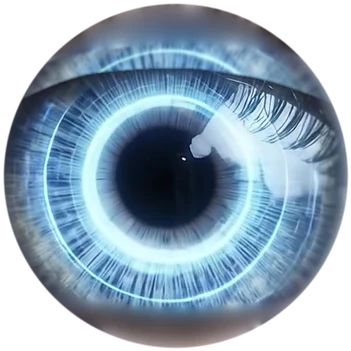
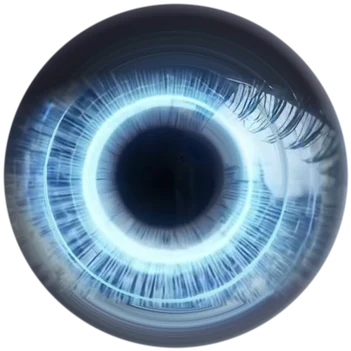
eye

diff --git a/index.html b/index.html
@@ -5,7 +5,7 @@
   <meta name="viewport" content="width=device-width, initial-scale=1">
   <title>Foresite — Modern websites, built to be found</title>
   <meta name="description" content="Foresite rebuilds outdated small business websites and sets them up to be found — by search engines, by Google Maps, and by AI assistants. Flat-fee builds for Australian local businesses.">
-  <link rel="preload" as="image" href="frames/eye_human.webp?v=2" fetchpriority="high">
+  <link rel="preload" as="image" href="frames/eye_human.webp?v=3" fetchpriority="high">
   <link rel="preconnect" href="https://fonts.googleapis.com">
   <link rel="preconnect" href="https://fonts.gstatic.com" crossorigin>
   <link rel="stylesheet" href="https://fonts.googleapis.com/css2?family=Archivo:wght@400;500;700&family=IBM+Plex+Mono:wght@400;500&family=Newsreader:ital,opsz,wght@1,6..72,300;1,6..72,400&display=swap">
@@ -1022,11 +1022,10 @@
   var AP   = { x: 375.0, y: 255.0, w: 630, h: 345 };    // the eye opening
   var EYE_X = 675, EYE_Y = 405;                          // centre of the eye
   var SAFE_W = 920, SAFE_H = 640;                        // must never be cropped
-  // How far the iris may travel. Deliberately modest: the lashes that cross
-  // the open eye are part of the iris image, so a large sweep drags them along
-  // with it and reads as a glitch. At this range the movement is clearly
-  // legible and the lashes stay put to the eye.
-  var GAZE_X = 34, GAZE_Y = 20;
+  // How far the iris may travel. The reflected lashes and the highlight now
+  // stay on the surface of the eye rather than riding along with the iris, so
+  // it can move properly again.
+  var GAZE_X = 58, GAZE_Y = 36;
 
   var BLINK_N = 30, EXPL_N = 27;
   var BLINK_CUT = 24;          // frames 0-23 are the blink; the rest is settling
@@ -1041,7 +1040,7 @@
   // Bump this whenever the frame files change. The filenames stay the same
   // between versions, so without it browsers and Vercel's CDN happily serve
   // last week's images with this week's code.
-  var P = 'frames/', V = '?v=2';
+  var P = 'frames/', V = '?v=3';
   function img(src) { var i = new Image(); i.decoding = 'async'; i.src = P + src + V; return i; }
   function pad(n) { return ('00' + n).slice(-3); }
 
@@ -1049,6 +1048,7 @@
   var aiBase = img('eye_ai_base.webp');
   var aiIris = img('eye_ai_iris.webp');
   var aiMask = img('eye_ai_mask.webp');
+  var aiRefl = img('eye_ai_refl.webp');
   var blink = [], expl = [], i;
   for (i = 0; i < BLINK_N; i++) blink.push(img('blink_' + pad(i) + '.webp'));
 
@@ -1064,7 +1064,7 @@
   }
   human.onload = function () { dirty = true; };
 
-  whenLoaded([human, aiBase, aiIris, aiMask].concat(blink), function () {
+  whenLoaded([human, aiBase, aiIris, aiMask, aiRefl].concat(blink), function () {
     blinkReady = true; dirty = true;
     if (wantsBlink) startBlink();
     for (var k = 0; k < EXPL_N; k++) expl.push(img('expl_' + pad(k) + '.webp'));
@@ -1171,6 +1171,15 @@
     octx.globalCompositeOperation = 'destination-in';
     octx.drawImage(aiMask, 0, 0);
     ctx.drawImage(off, ox + AP.x * k, oy + AP.y * k, AP.w * k, AP.h * k);
+    // The reflected lashes and the specular highlight live on the wet surface
+    // of the eye, not on the iris, so they are added last at a fixed position
+    // and the iris slides underneath them. Stored as pure added light, so
+    // 'lighter' reproduces the original frame exactly when the eye is at rest.
+    if (ready(aiRefl)) {
+      ctx.globalCompositeOperation = 'lighter';
+      ctx.drawImage(aiRefl, ox + AP.x * k, oy + AP.y * k, AP.w * k, AP.h * k);
+      ctx.globalCompositeOperation = 'source-over';
+    }
   }
   function drawEye(alpha) {
     if (alpha < 1) ctx.globalAlpha = alpha;

diff --git a/docs/DECISIONS.md b/docs/DECISIONS.md
@@ -27,14 +27,30 @@ _Last updated: 3 September 2026_
   Costs three image files instead of one; worth it, since this is the thing visitors
   actually look at.
 
-- **The iris travels a modest distance, on purpose.** The lashes that cross the open part
-  of the eye are baked into the iris image, so a wide sweep drags them along with it and
-  reads as a glitch. Two attempts to cut them out of the iris and re-draw them separately
-  both made it worse — a "dark = lash" test also catches the dark parts of this iris, and
-  a thinness test left speckles. Halving the travel instead (`GAZE_X`/`GAZE_Y` in the
-  script) keeps the movement clearly legible while the lashes stay convincingly attached.
-  If it ever needs to sweep further, the honest fix is a second source frame with the eye
-  actually looking sideways — not more retouching.
+- **The lashes over the iris are reflections, and they belong to the surface, not the iris.**
+  This was the bug behind every "glitchy" report. The pale strokes and the bright highlight
+  across the iris are the lashes mirrored in the wet front of the eye. They were baked into
+  the iris image, so the iris dragged them around with it.
+
+  Three attempts to detect them failed, and it is worth recording why so nobody repeats
+  them: testing for *dark* pixels also catches the dark parts of this iris and gouged holes
+  in it; testing for *thin dark* structures (a black top-hat) catches the iris's own radial
+  fibres, which are equally thin and dark; and simply shortening the iris's travel hid the
+  problem rather than fixing it.
+
+  What worked is a property of the eye, not of the pixels: **an iris ring is the same
+  brightness all the way round, and a reflection is not.** Converted to polar coordinates
+  the iris is near-constant along the angular axis at any given radius, so a localised
+  bright anomaly is a reflection by definition. Those are flagged, the gap is filled from
+  the unflagged angles at the same radius (which preserves the fibre texture), and the
+  reflection is stored separately as *pure added light* - the original minus the cleaned
+  iris.
+
+  The browser draws it with the `lighter` blend at a fixed position, over the moving iris.
+  Two consequences worth knowing: at rest the composite reproduces the original video frame
+  exactly, and the reflection has no cut-out edge, because it is light being added rather
+  than a patch being pasted. `eye_ai_refl.webp` is stored **lossless** for that reason -
+  compression noise in its black areas would lay a haze over the whole eye.
 
 - **Following the cursor repaints only the eye, not the whole hero.** Redrawing a
   full-screen image on every animation frame stuttered on large displays. The tracking now
